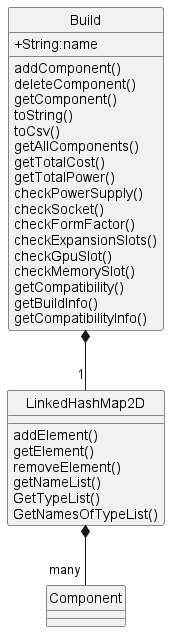
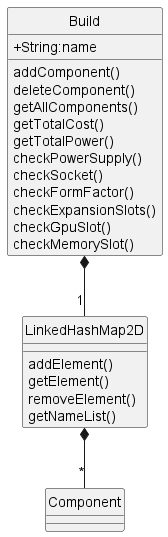
Added Architecture diagram, corrected Component Diagram to make it more readable and other minor fixes

Changed region(s): [[0.0298, 0.0, 0.9821, 1.0]]

diff --git a/docs/DeveloperGuide.md b/docs/DeveloperGuide.md
@@ -20,9 +20,6 @@
 * [Instructions for Manual Testing](#instructions-for-manual-testing)
 
 ## Design & implementation
-
-{Describe the design and implementation of the product. Use UML diagrams and short code snippets where applicable.}
-
 ### Main Mode
 
 This section describes the implementation of Main Mode features.
@@ -30,19 +27,21 @@ This section describes the implementation of Main Mode features.
 Once the `main()` method of ComputerComponentChooser is called, instances for the `BuildManager`, `Parser`, 
 `editParser`, `Storage`, `Ui` classes are initialized.
 
+![](/images/Architecture.png)
+
 #### BuildManager
 
 ![](/images/BuildManager.png)
 
-The builds are managed by the BuildManager class. It contains a list of builds in a HashMap. The class also contains
-methods to find and filter builds based on user requirements. The BuildManager class is a singleton class, meaning that
+The builds are managed by the `BuildManager` class. It contains a list of builds in a `HashMap`. The class also contains
+methods to find and filter builds based on user requirements. The `BuildManager` class is a singleton class, meaning that
 there is only one instance of the class in the program. This is to ensure that there is only one list of builds in the
 program. 
 
-In our application, BuildManager is a class object that contains a HashMap of builds. The HashMap is used to store the
-builds in the program. The key of the HashMap is the name of the build, and the value is the build object.
+In our application, `BuildManager` is a class object that contains a HashMap of builds. The `HashMap` is used to store the
+builds in the program. The key of the `HashMap` is the name of the build, and the value is the build object.
 
-The BuildManager class is responsible for the following operations:
+The `BuildManager` class is responsible for the following operations:
 - Add a build to the list of builds
 - Delete a build from the list of builds
 - Get a particular build from the list of builds
@@ -240,7 +239,7 @@ into the text file with the path `COMPONENT_FILE_PATH`. If the text file does no
 
 ### Components
 
-![](/images/Component.png)
+![](/images/ComponentEdited.png)
 
 Each of the various components are represented by classes stored in the `components` package. The current components represented are the following:
 - `Cpu`
